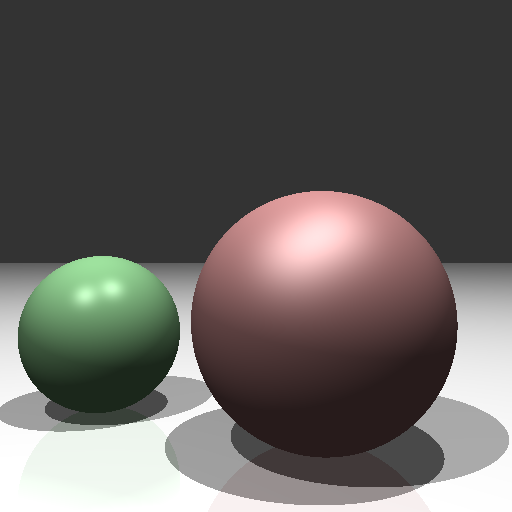
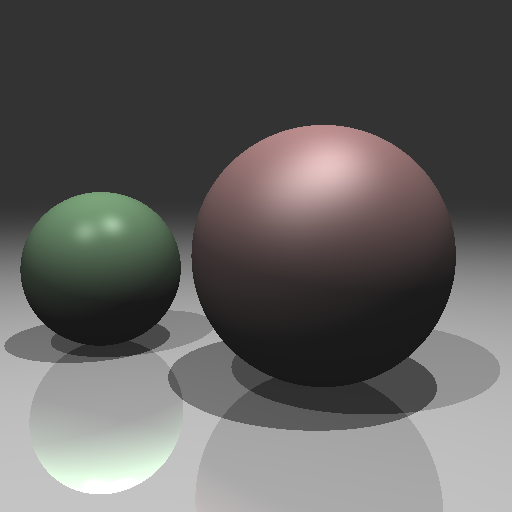
done

diff --git a/src/apps/01_raytrace.cpp b/src/apps/01_raytrace.cpp
@@ -167,7 +167,7 @@ vec3f raytrace_ray(Scene* scene, ray3f ray,int count) {
         vec3f color(0,0,0);
         for(int i = 0 ; i < scene->lights.size() ; ++i){
             vec3f l = scene->lights[i]->frame.o - intersec.pos;
-            double dis = (abs(dot(l,l))); offile<<dis<<"\r\n";
+            double dis = (abs(dot(l,l)));
             l = normalize(l);
             //ambient
             color += scene->ambient *  (scene->lights[i]->intensity / dis);
@@ -223,8 +223,8 @@ image3f raytrace(Scene* scene) {
            vec3f color;
            for(int m = 0 ; m < scene->image_samples ; ++m){
                for(int n = 0 ; n < scene->image_samples ; ++n){
-                   float u = -0.5 + (i+(m+0.5)/scene->image_samples) / scene->image_width;
-                   float v = -0.5 + (j+(n+0.5)/scene->image_samples) / scene->image_height;
+                   float u = -scene->image_width /2.0  + (i+(m+0.5)/scene->image_samples) / scene->image_width;
+                   float v = -scene->image_height/2.0 + (j+(n+0.5)/scene->image_samples) / scene->image_height;
                    vec3f direction = normalize(u * scene->camera->frame.x + v * scene->camera->frame.y - scene->camera->frame.z);
                    ray3f ray(scene->camera->frame.o, direction);
                    color += raytrace_ray(scene,ray,0);
